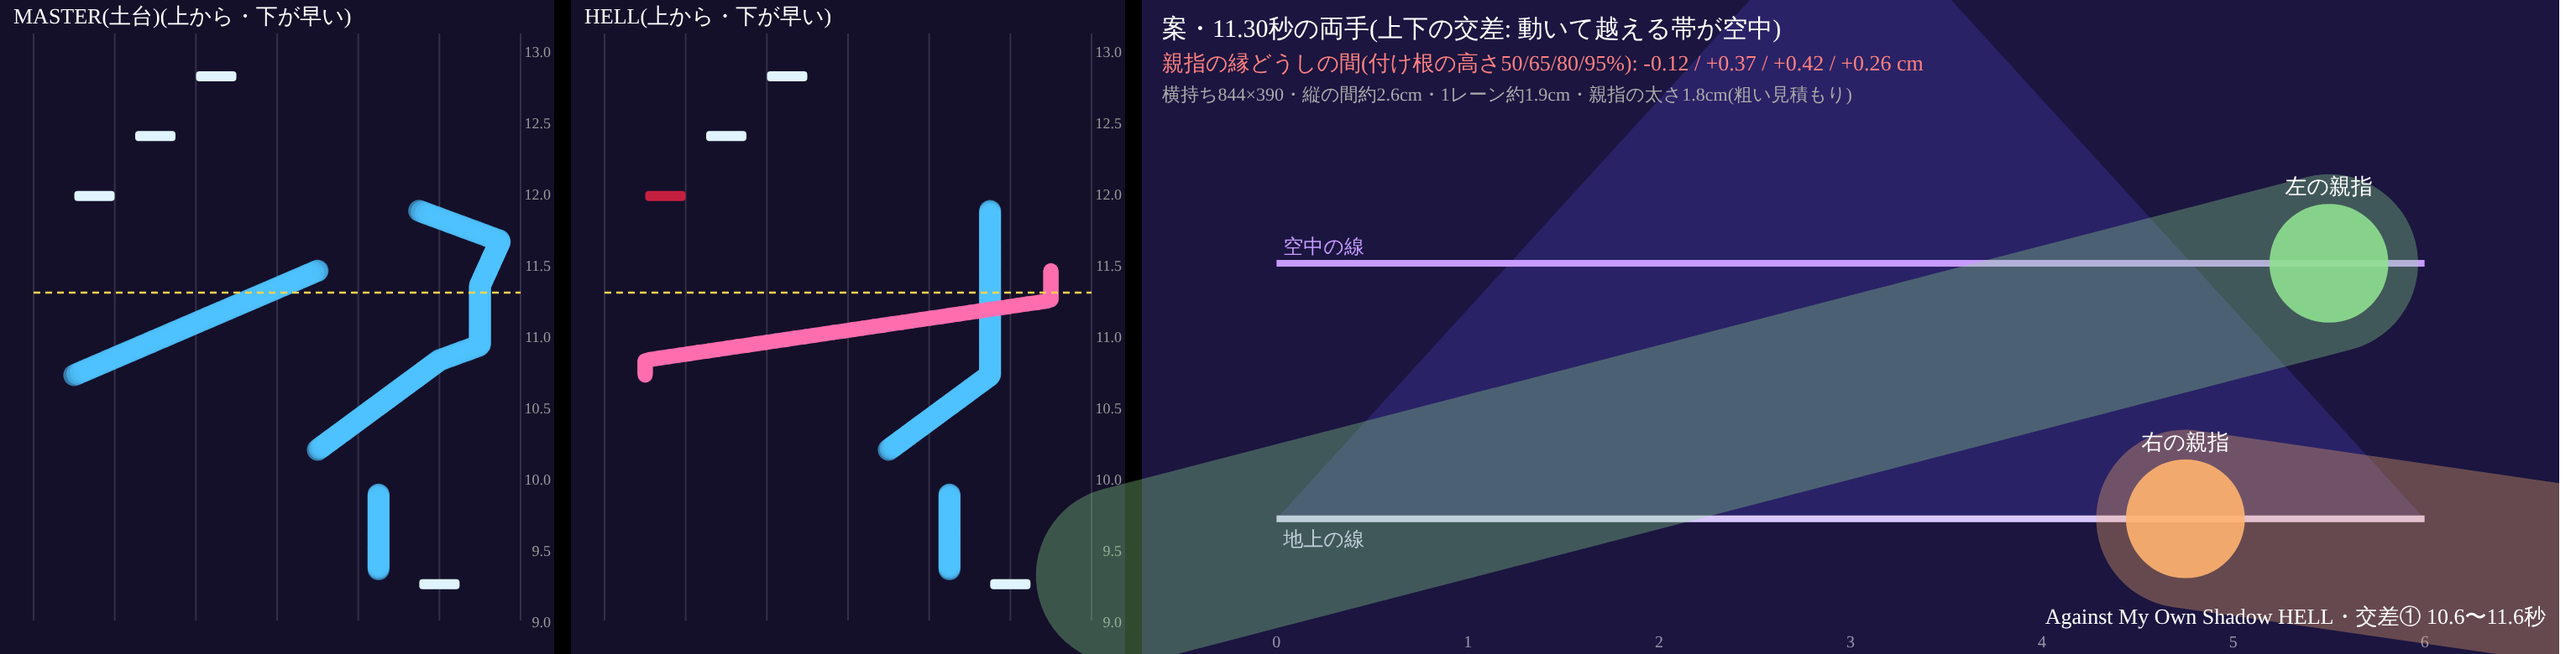
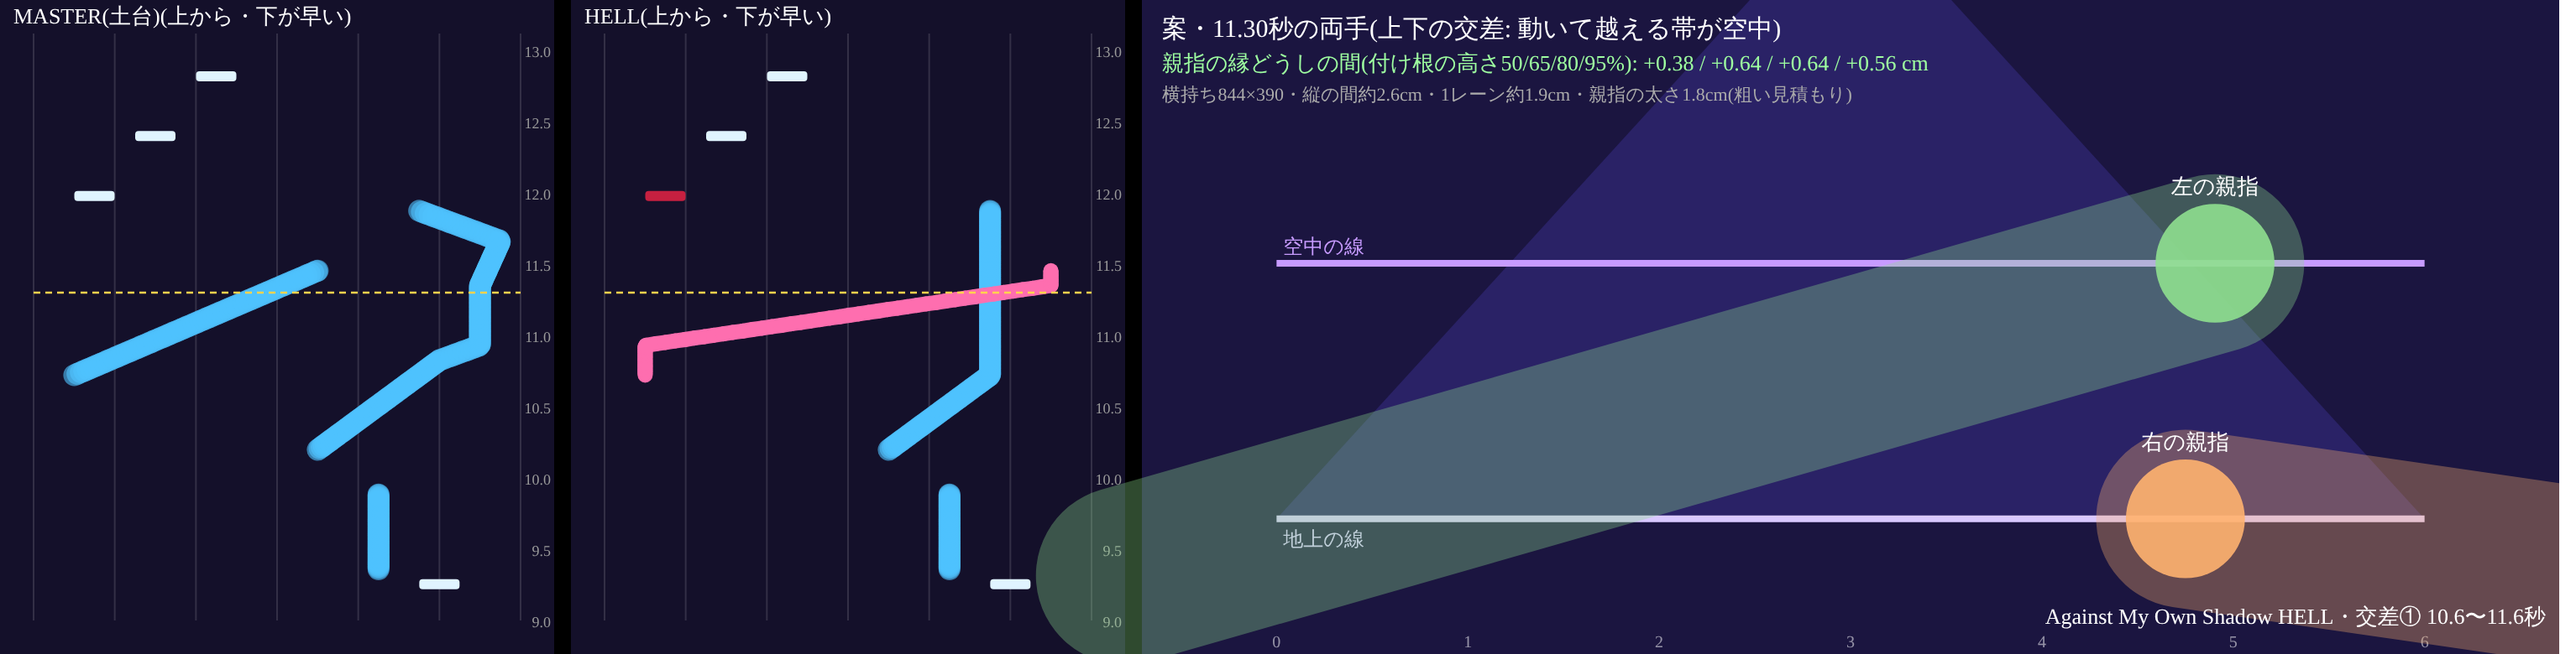
Against My Own Shadow の HELL の静止画と説明
Claude-Session: https://claude.ai/code/session_01WaDzrhPE2Q6PDmeAgFPTwG

diff --git a/docs/playbot/shots/2026-10-13-gl-hell-cross/README.md b/docs/playbot/shots/2026-10-13-gl-hell-cross/README.md
@@ -122,3 +122,14 @@
 - テンポくんの bot(前 913086f/後 3af7557・持ち替えなし): MISS 0(交差の外の106.61秒に GOOD が1つ)。
   4か所の指先どうしの最短: 前 6・3・25px → 後 145・150・123px。左の指先↔右の親指の軸 前 5・2・25px → 後 108〜126・107〜119・75〜88px(ふつうの人の108.3・109.7秒だけ 75px)
 - 静止画: `flat-1.png`(108.48秒)・`flat-2.png`(111.07秒)・`flat-3.png`(111.96秒)。左から いまの上から見た譜面/直した上から見た譜面/交わっている瞬間の両手
+
+## Against My Own Shadow の HELL(中くらい・2026-10-13 午後・公開前)
+- 社長「今すぐ中くらいの HELL を作り始める」→ Against My Own Shadow。MASTER(Lv.29・397ノーツ)を土台に `rhythm-hell-mix.js --song against_my_own_shadow --write` で作った。**Lv.36**・空中タップ32
+- 公開はしない: RHYTHM_HELL_CHARTS には足さず、デバッグの試作の枠 `against_my_own_shadow_hell_debug` だけが指す
+- 手の決まり0件・水平クロス0。交差3か所(10.6〜11.6・39.1〜41.0・94.1〜95.4秒)は、横へ動いて越える帯を空中・止まっている帯を地上に(`crossUpper:'mover'`)。
+  越える瞬間は重なりの終わりの約0.33秒前、越える深さは ①③1レーン・②0.5レーン(`crossDepth`)
+- 道具の手直し: 直し切れずに残った手の決まりの所は空中のタップやスライドの端を地上へ下ろす最後の段/交差の上下の向き・越える瞬間・深さを曲ごとに決められる。Sheriruth・風がそよぐ場所の出力は1文字も変わらない(sha256 で突き合わせ)
+- 横持ちの物差しの「押せない2・交差9」は、土台の MASTER(公開中)と同じ数(HELL で増えた所は0)
+- テンポくんの bot(版3・持ち替えなし): 交差の中の MISS 0。通しの MISS は 親指3・内寄り5・ふつう0(どれも地上。97.70秒など MASTER と同じ置き方の所)。
+  交差の指の近さ: ① 104〜203px/② 指先どうし 116〜129px・右の指先↔左の親指の軸 87・75・94px(内寄りの人だけ目安のやや下)/③ 109〜198px
+- 静止画: `aomos-1.png`・`aomos-2.png`・`aomos-3.png`(左から 土台の MASTER/HELL の上から見た譜面/交わっている瞬間の両手)
